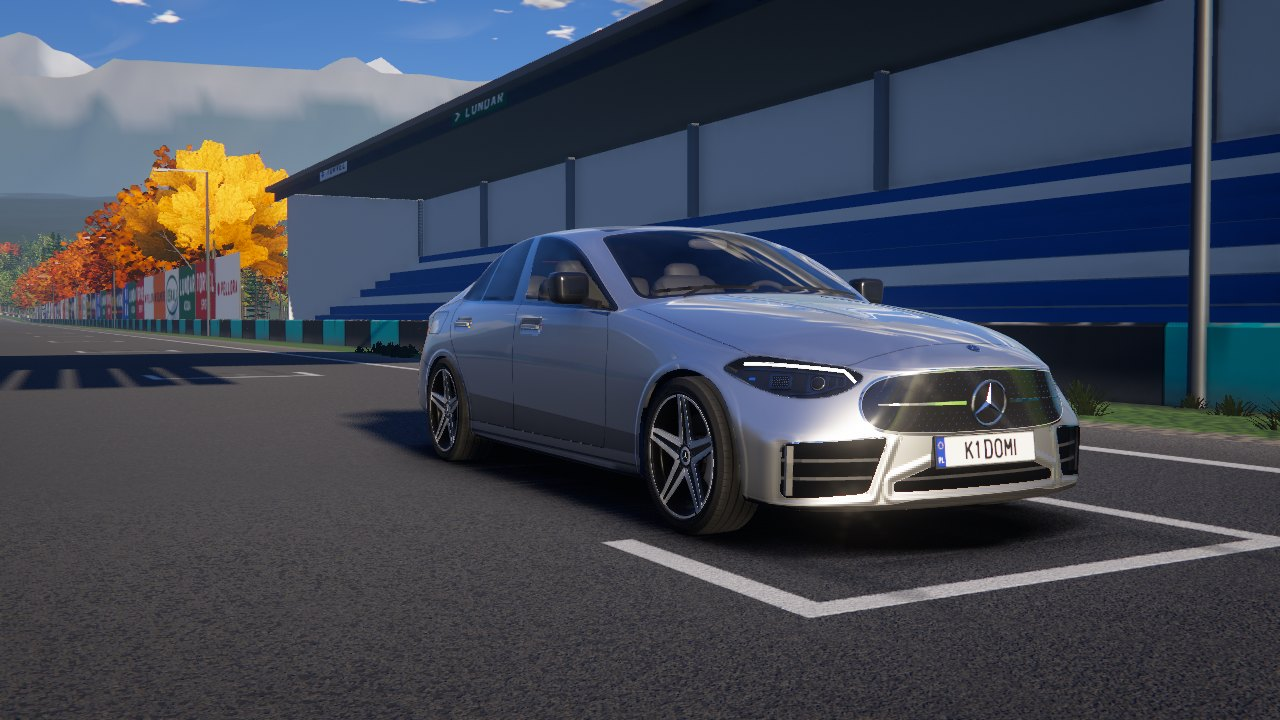
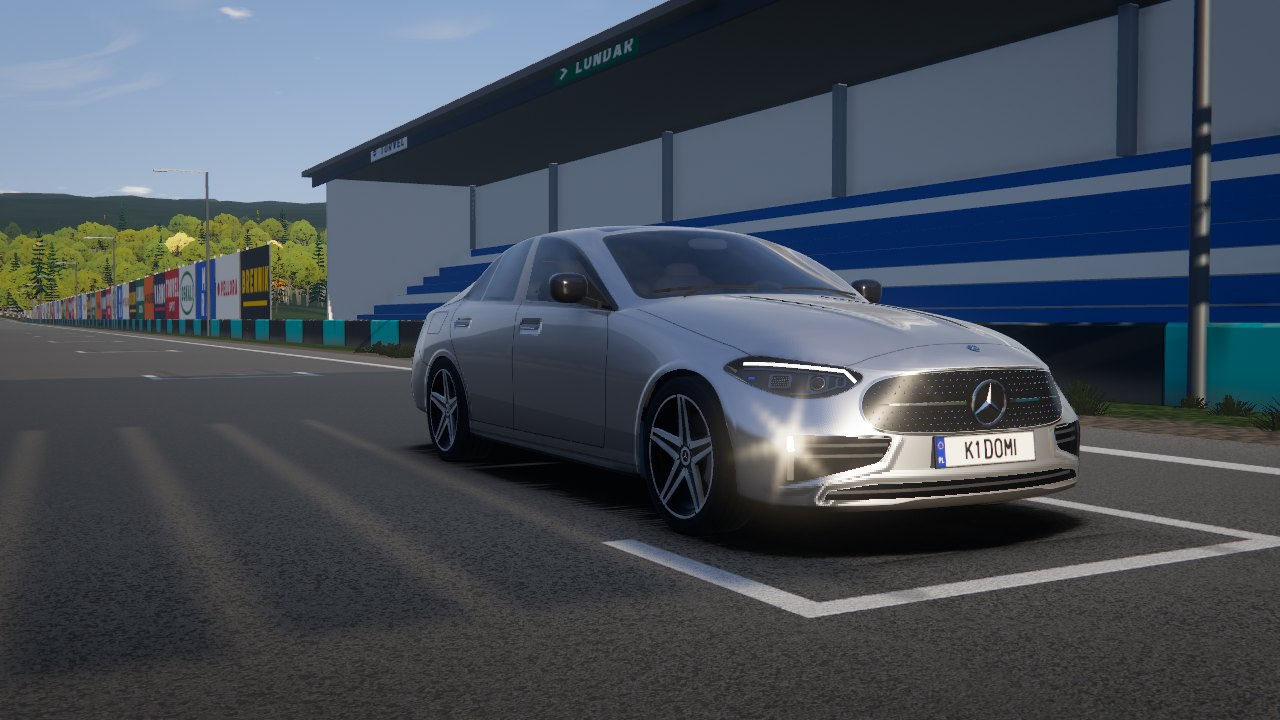
lane: finish checkpoint
Claude-Session: https://claude.ai/code/session_01Wk7hSoYS2YpKJEfRQJQQPF

diff --git a/03-dreamcar/docs/tools.md b/03-dreamcar/docs/tools.md
@@ -170,6 +170,20 @@ machine without a GPU, and only what is listed here.
   (spec.md). `node tools/unit.mjs` passed. Not looked at on `high`, at golden
   hour, in split screen or in motion; the playtest and the soundtest were not
   run.
+- **The finish lane's changes** (one green for all grass, the lens ghosts
+  kept on the sun's side, floodlights set back and raised, the draw-call
+  merges and draw distances, the kerbs' and rails' retro-reflection): stills
+  on software WebGL before and after, by eye, at `medium` 1280x720 by day
+  (t = 6, 14, 40 of the autopilot run), at dusk (t = 6) and by night
+  (t = 20, 50, 56), at 393x700 by night (t = 3, 45, 60) and at 393x852
+  scale 2 on `low` by day (t = 20, 79); draw calls counted at four moments
+  (spec.md); every picture of `tools/screenshots.cjs` regenerated and looked
+  at (no staged camera needed moving; the phone picture is now on
+  `medium`); `node tools/unit.mjs` passed (4 files). The kerbs' sparkle was
+  not caught in any still (no kerb lay in the beam ahead of the car in the
+  ones made); the rails' reflectors were. Not looked at on `high`, in split
+  screen at night or in motion; the playtest and the soundtest were not
+  run. The page raised no console error in any of these loads.
 - **No WebGL errors**: the playtest fails a page on any; the night-time
   `GL_INVALID_OPERATION` of the first frame (the mirror drawn before the
   sun's shadow map existed) was found and fixed by the look lane.
@@ -190,11 +204,13 @@ Read this before believing anything above about a device.
   frame of the full world takes tens of seconds to draw. No frame rate on
   any real GPU has been measured. The adaptive render scale has been seen to
   step, never on a real device.
-- **The budgets.** Counted, not timed: after the picture lane's work the low
-  tier is at 253 to 328 k triangles and 168 to 230 draw calls (budget 250 k
-  and 150), medium at 0.67 to 1.04 M by day and up to 1.31 M by night
-  (budget 600 k). Both are still over. Whether a phone draws them at a
-  usable frame rate is unknown.
+- **The budgets.** Counted, not timed, at four moments of one autopilot
+  run (spec.md): after the finish lane the low tier draws 133 to 149 calls
+  by day (budget 150) and medium 228 to 291 by night (budget 300); triangles
+  are still over (low 293 to 358 k against 250 k, medium up to 1.3 M against
+  600 k). Other places on the lap, the high tier and split screen were not
+  counted. Whether a phone draws any of it at a usable frame rate is
+  unknown.
 - **Browsers.** Only headless Chromium. Safari (desktop and iOS: the owner's
   iPhone screenshots aside, which say nothing about its correctness) and
   Firefox are untested, including WebGL 2 on older iOS, half-float targets, the

diff --git a/03-dreamcar/docs/README.md b/03-dreamcar/docs/README.md
@@ -9,7 +9,7 @@ parts work. Written for whoever changes it next.
 | --- | --- |
 | [design.md](design.md) | What is this meant to be? The car, the circuit, a run, how it should feel, the camera, the look of each time of day and the reference frames it answers to. These are the targets. |
 | [spec.md](spec.md) | What does the build do, in numbers? The circuit section by section, the car and its handling table, the rules, controls, cameras, HUD, options, URL parameters, the times of day, the passes and tiers, sound, storage. |
-| [techniques.md](techniques.md) | How do the tricky parts work: the Track from straights and arcs, the terrain conformed to it, the vehicle and why it runs in Node, the autopilot's speed plan, the trees, the sky and the massif, the asphalt, the frame, determinism, the staging camera. |
+| [techniques.md](techniques.md) | How do the tricky parts work: the Track from straights and arcs, the terrain conformed to it, the vehicle and why it runs in Node, the autopilot's speed plan, the trees, the sky and the massif, the asphalt, the frame, what each pass draws (the budget), the lamps at night, determinism, the staging camera. |
 | [car.md](car.md) | The car: its files, how the skin, the paint, the glass, the lamps, the wheels and the plates are made, what each tier costs, what still differs from the photographs. |
 | [engine.md](engine.md) | The frame: every pass and target per tier, the tone curve and the grade, the probe and the mirror, split screen, how to add a pass, what is easy to break. |
 | [tools.md](tools.md) | The dev scripts: tests, screenshots, the page handle, and what has and has not been verified. |

diff --git a/03-dreamcar/docs/ideas.md b/03-dreamcar/docs/ideas.md
@@ -84,9 +84,19 @@ from straight behind, the silver going warm in a low sun.
 
 ### Phones
 
-- The low tier was over its budget (draw calls and triangles) at the merged
-  head. The biggest shares were the terrain, the rails, the lamps, the
-  ghost car and the far mountains: cut those first.
+- **Draw calls** are inside the budgets at the four moments counted (low
+  133 to 149 of 150 by day, medium 228 to 291 of 300 by night: spec.md),
+  with little room left. The car is now the biggest share (about 25 calls in
+  each of the scene and the mirror, 14 in the shadow map): merging its
+  meshes by material is the CAR lane's to do. Triangles are still over on
+  every tier: the nearest trees, the terrain and the car's mirror image.
+- **The verge under the woods** reads olive and brown at the chase camera's
+  distance (bare earth, fallen leaves) now that the light through the grass
+  no longer glows; whether that is the autumn of frame D4 or too dead a
+  green has not been judged beside the reference.
+- **The floodlights at rock faces** go to the other side of the road where
+  there is a rail; the stretch of the bend at t = 60 of the autopilot run
+  that one used to light is darker at night now.
 - Nobody has played it on a phone. Do that before anything else on this
   list.
 

diff --git a/03-dreamcar/docs/spec.md b/03-dreamcar/docs/spec.md
@@ -381,6 +381,24 @@ the massif 92 k; the car 85 k with its wheels), the shadow map 140 to 190 k
 wrapped in the page, labelled by the pass being drawn (techniques.md, "What
 each pass draws").
 
+**Draw calls after the finish lane** (2026-11-18, the same four moments at
+393x852 and device scale 1, one whole frame each, `stats().drawCalls` of
+the last of six frames, so a frame that draws a probe face; counted with the
+page's `renderer.renderBufferDirect` wrapped, as above):
+
+| moment | low, day, before | low, day, after | medium, night, before | medium, night, after | medium, day, after |
+| --- | --- | --- | --- | --- | --- |
+| grid (t = 0) | 213 | 133 | 409 | 291 | 200 |
+| esses (t = 33) | 220 | 140 | 392 | 267 | 187 |
+| sky road (t = 45) | 194 | 138 | 305 | 228 | 173 |
+| ledge bend (t = 79) | 257 | 149 | 418 | 273 | 192 |
+
+Both inside their budgets (low 150, medium 300) at these moments; other
+places on the lap were not counted. Triangles hardly moved (low 293 to
+358 k, medium by night 0.97 to 1.30 M): still over the triangle budgets.
+About a quarter of every pass's calls is the car (25 in the scene and in the
+mirror, 14 in the shadow map), which this lane did not touch.
+
 None of these was measured on a real GPU or phone.
 
 ## Sound

diff --git a/03-dreamcar/README.md b/03-dreamcar/README.md
@@ -13,7 +13,7 @@ a lit tunnel, out onto a road on piers across the valley, round a slow
 banked carousel, over a crest, down a plunge and a ledge, across a second
 bridge and through a long right back to the shore. The car is a model of a
 real one, made in code from photographs, in a hot dream tune: 0 to 100 km/h in
-3.9 s, 284 km/h, about 1.3 g. It is quick and planted, and it can be driven
+3.7 s, 284 km/h, about 1.3 g. It is quick and planted, and it can be driven
 flat out with a keyboard or one thumb in the first minute.
 
 | | |
